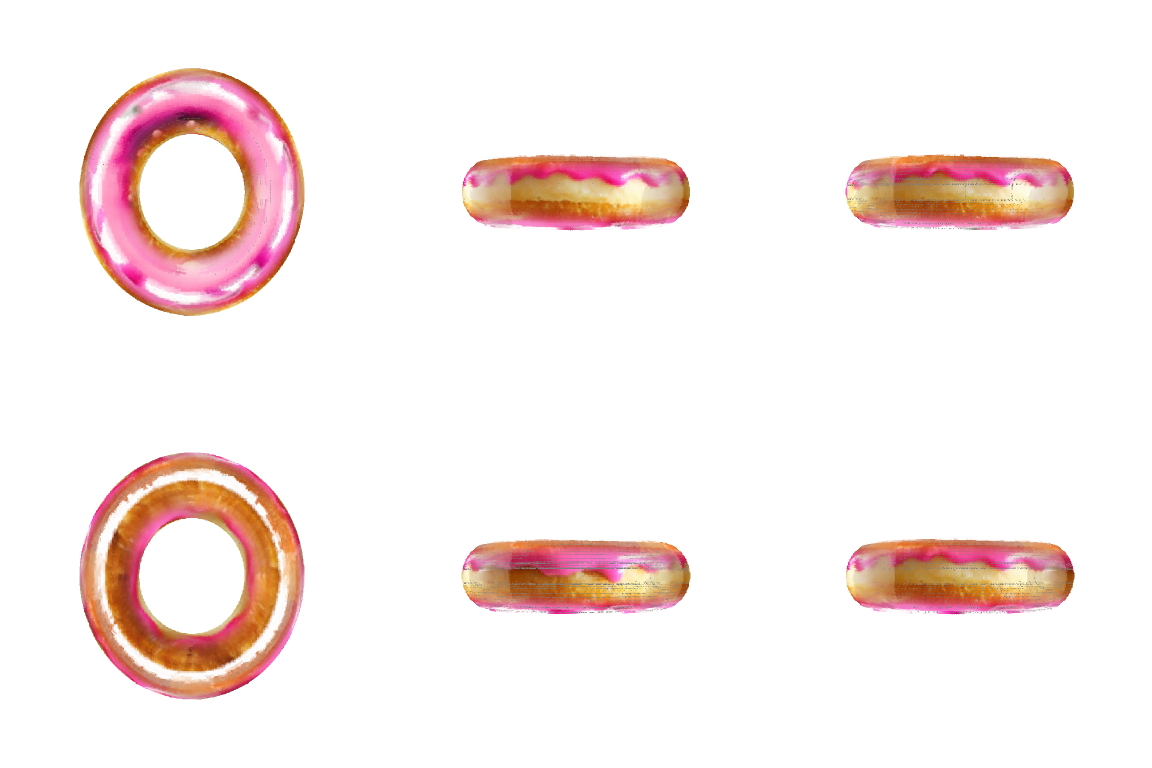
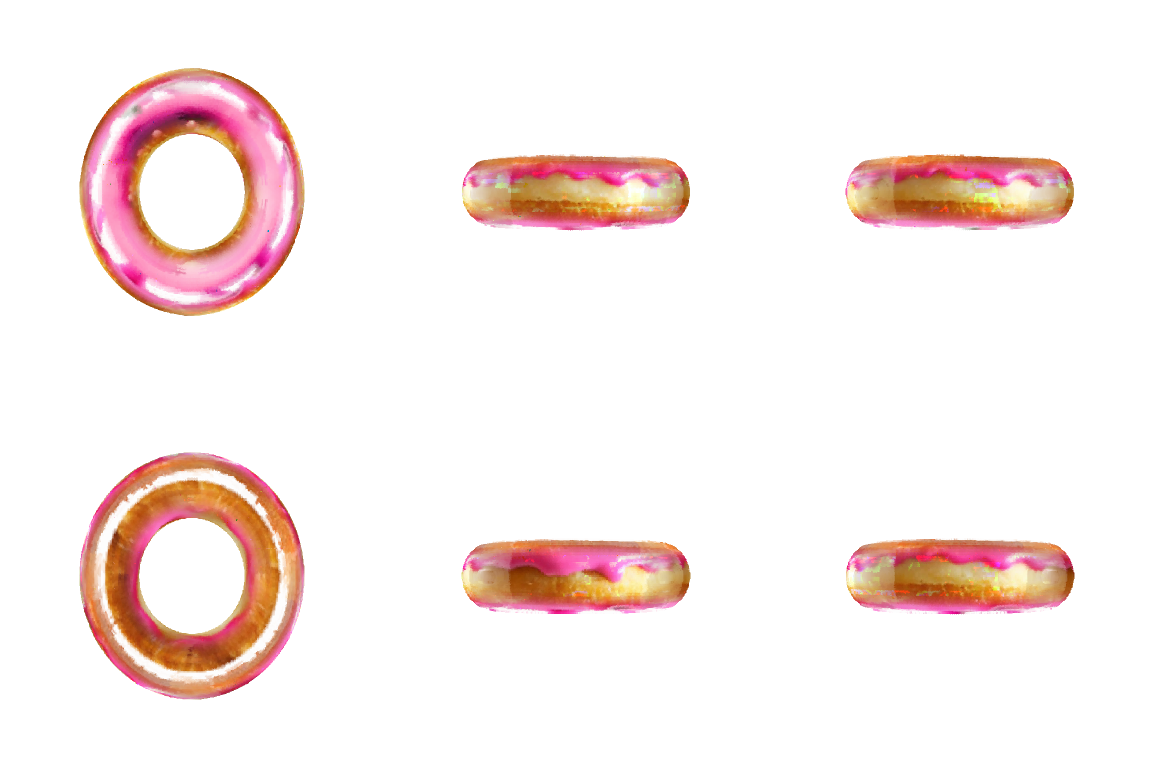
Page: the exterior sheets, from surfaces coloured by skin
Regenerated after the colour-source fix in globalovox. The caption records what was wrong,
because 13.1% of a dual grid's vertices sitting nearer an interior cell than a skin one is a
property of the representation worth knowing rather than an implementation detail.

diff --git a/index.html b/index.html
@@ -808,7 +808,16 @@ cells, but the whole object does.</p>
   its crumb underneath, which is the normal being read off the field rather than off the centroid;
   the watermelon's stripes continue across the boundaries between views; the orange's underside is
   dark because the object it was rendered from was photographed sitting on a surface, and that
-  baked lighting is carried rather than removed.</figcaption>
+  baked lighting is carried rather than removed.
+  <br><br>
+  Each surface vertex takes its colour from the nearest <em>skin</em> cell, and the qualifier is
+  load-bearing. The boundary is the occupancy's, at any level, so 13.1% of these vertices are
+  nearer to an interior cell than to a skin one; colouring from the nearest cell of any kind gives
+  that 13% whatever the interior holds, which on a generated lattice is the flat grey
+  <code>make_shape</code> writes &mdash; drawn as blue-grey seams across the peel. Substituting
+  the trained model there replaces the grey with pale pulp and the seams with blotches, which is
+  no better. The cells that carry exterior appearance are the ones the six views painted, and
+  those are the ones to ask.</figcaption>
 </figure>
 
 <div class="note"><strong>What a wrong number looked like, twice.</strong> Two entries in these
